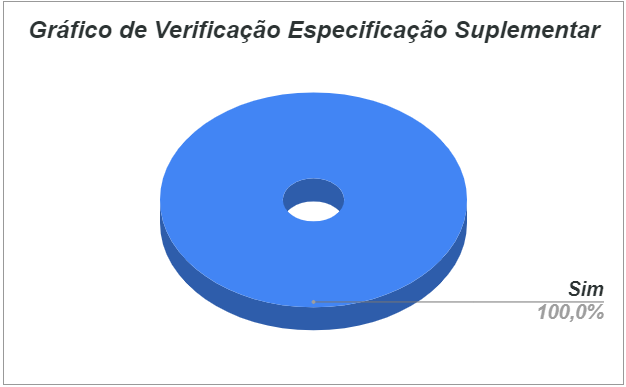
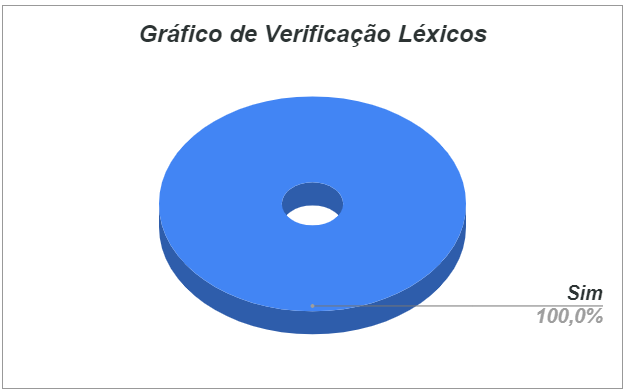
Ajustes de formataçe formatação

diff --git a/docs/analise/verificacao/ver_lexicos.md b/docs/analise/verificacao/ver_lexicos.md
@@ -50,7 +50,7 @@ Já a Figura 3 apresenta um gráfico de pizza com objetivo de mostrar as verific
 
 <center>
 
-<figcaption>Figura 3: Gráfico Resultado Backlog. </figcaption>
+<figcaption>Figura 3: Gráfico Resultado Léxicos. </figcaption>
 
 <p align = "center"><img src="https://raw.githubusercontent.com/Requisitos-de-Software/2021.2-PontoFacil/master/docs/assets/imagens/ver_lexico_grafico.png"></p><br>
 
